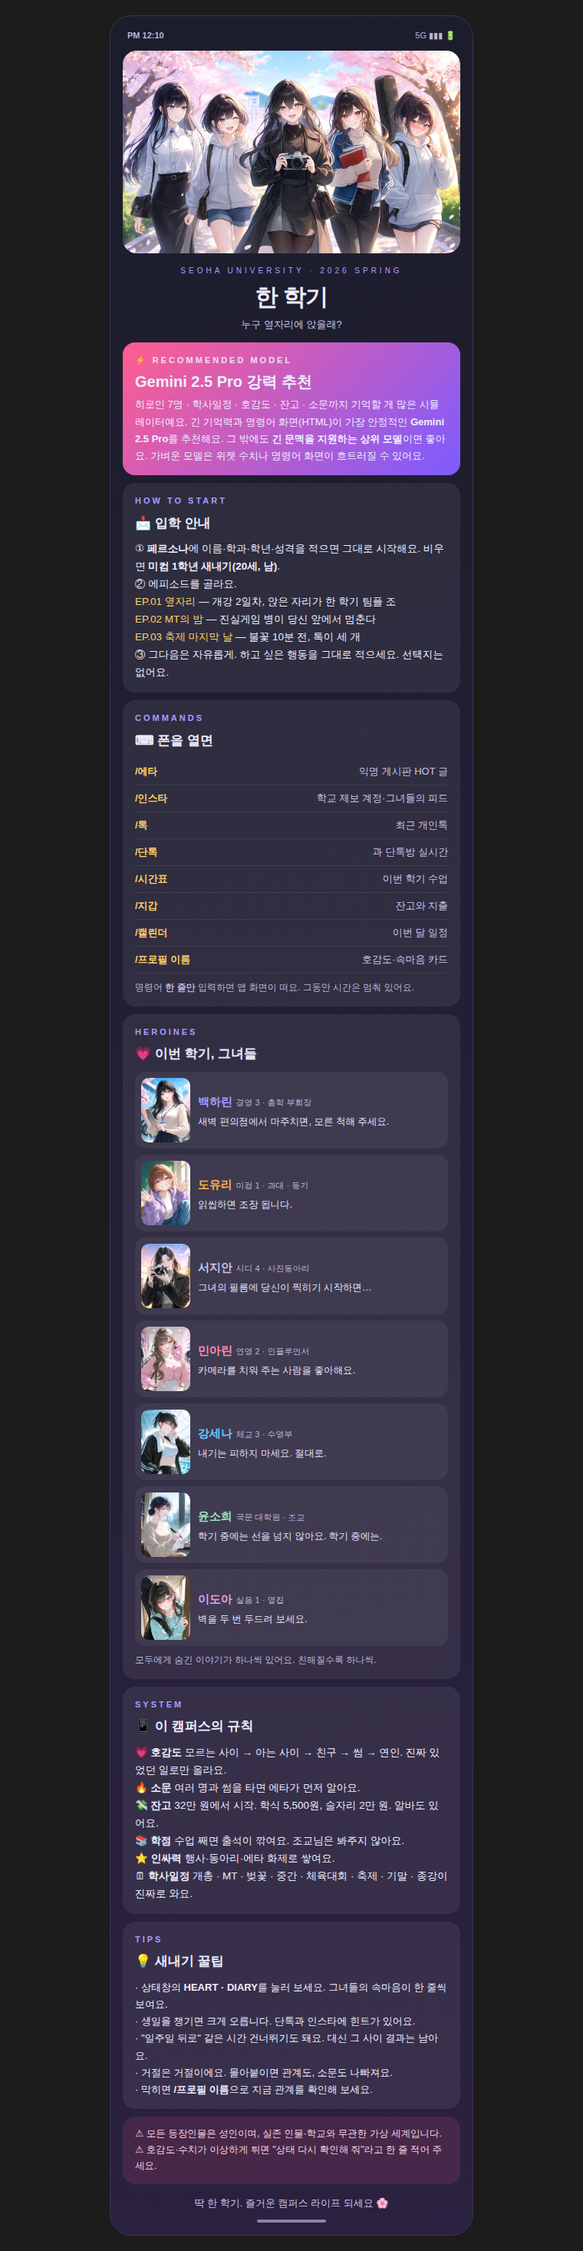
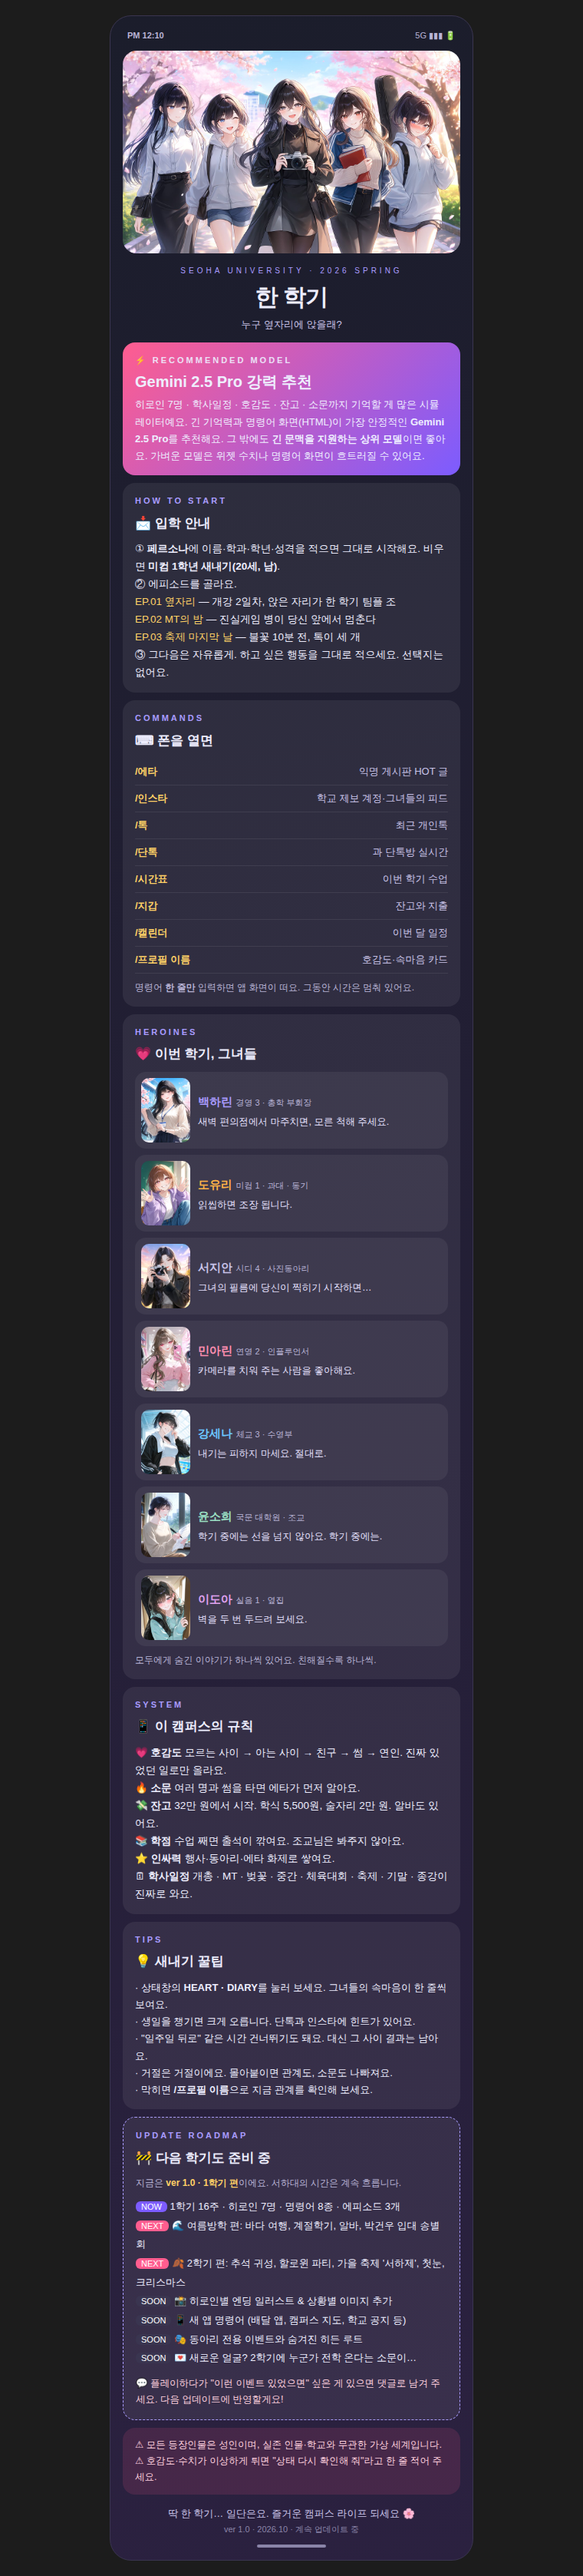
한 학기: 크리에이터 코멘트에 업데이트 로드맵 추가
Claude-Session: https://claude.ai/code/session_01SV9UqK4UZkssnVntQcydxM

Changed region(s): [[0.2118, 0.0, 0.7868, 1.0], [0.6658, 0.7138, 0.6961, 0.7449], [0.575, 0.4966, 0.6053, 0.5276]]

diff --git a/tools/campus_comment_builder.py b/tools/campus_comment_builder.py
@@ -48,11 +48,22 @@ h=f'''<div style="max-width:440px;margin:0 auto;background:linear-gradient(170de
 · 거절은 거절이에요. 몰아붙이면 관계도, 소문도 나빠져요.<br>
 · 막히면 <b>/프로필 이름</b>으로 지금 관계를 확인해 보세요.</div></div>
 
+<div style="{card}border:1px dashed #a99cff;">{H('UPDATE ROADMAP','🚧 다음 학기도 준비 중')}
+<div style="font-size:12px;color:#b9b4d6;margin-bottom:8px;">지금은 <b style="color:#ffd166;">ver 1.0 · 1학기 편</b>이에요. 서하대의 시간은 계속 흐릅니다.</div>
+<div style="font-size:13px;line-height:1.9;">
+<span style="background:#7c5cff;color:#fff;border-radius:6px;padding:1px 7px;font-size:11px;">NOW</span> 1학기 16주 · 히로인 7명 · 명령어 8종 · 에피소드 3개<br>
+<span style="background:#ff5d8f;color:#fff;border-radius:6px;padding:1px 7px;font-size:11px;">NEXT</span> 🌊 여름방학 편: 바다 여행, 계절학기, 알바, 박건우 입대 송별회<br>
+<span style="background:#ff5d8f;color:#fff;border-radius:6px;padding:1px 7px;font-size:11px;">NEXT</span> 🍂 2학기 편: 추석 귀성, 할로윈 파티, 가을 축제 '서하제', 첫눈, 크리스마스<br>
+<span style="background:#3a3550;color:#fff;border-radius:6px;padding:1px 7px;font-size:11px;">SOON</span> 📸 히로인별 엔딩 일러스트 & 상황별 이미지 추가<br>
+<span style="background:#3a3550;color:#fff;border-radius:6px;padding:1px 7px;font-size:11px;">SOON</span> 📱 새 앱 명령어 (배달 앱, 캠퍼스 지도, 학교 공지 등)<br>
+<span style="background:#3a3550;color:#fff;border-radius:6px;padding:1px 7px;font-size:11px;">SOON</span> 🎭 동아리 전용 이벤트와 숨겨진 히든 루트<br>
+<span style="background:#3a3550;color:#fff;border-radius:6px;padding:1px 7px;font-size:11px;">SOON</span> 💌 새로운 얼굴? 2학기에 누군가 전학 온다는 소문이…</div>
+<div style="font-size:12.5px;color:#ffd1df;margin-top:10px;">💬 플레이하다가 "이런 이벤트 있었으면" 싶은 게 있으면 댓글로 남겨 주세요. 다음 업데이트에 반영할게요!</div></div>
 <div style="background:#ff5d8f22;border-radius:16px;padding:12px 16px;margin-top:10px;font-size:12.5px;color:#ffd1df;">
 ⚠ 모든 등장인물은 성인이며, 실존 인물·학교와 무관한 가상 세계입니다.<br>
 ⚠ 호감도·수치가 이상하게 튀면 "상태 다시 확인해 줘"라고 한 줄 적어 주세요.</div>
 
-<div style="text-align:center;font-size:13px;color:#c9c3e8;margin-top:14px;">딱 한 학기. 즐거운 캠퍼스 라이프 되세요 🌸</div>
+<div style="text-align:center;font-size:13px;color:#c9c3e8;margin-top:14px;">딱 한 학기… 일단은요. 즐거운 캠퍼스 라이프 되세요 🌸<br><span style="font-size:11px;color:#8a84a8;">ver 1.0 · 2026.10 · 계속 업데이트 중</span></div>
 <div style="width:90px;height:4px;background:#8a84a8;border-radius:2px;margin:10px auto 0;"></div>
 </div>'''
 open('/home/user/claude-2/campus/크리에이터코멘트.txt','w').write(h);print(len(h))
